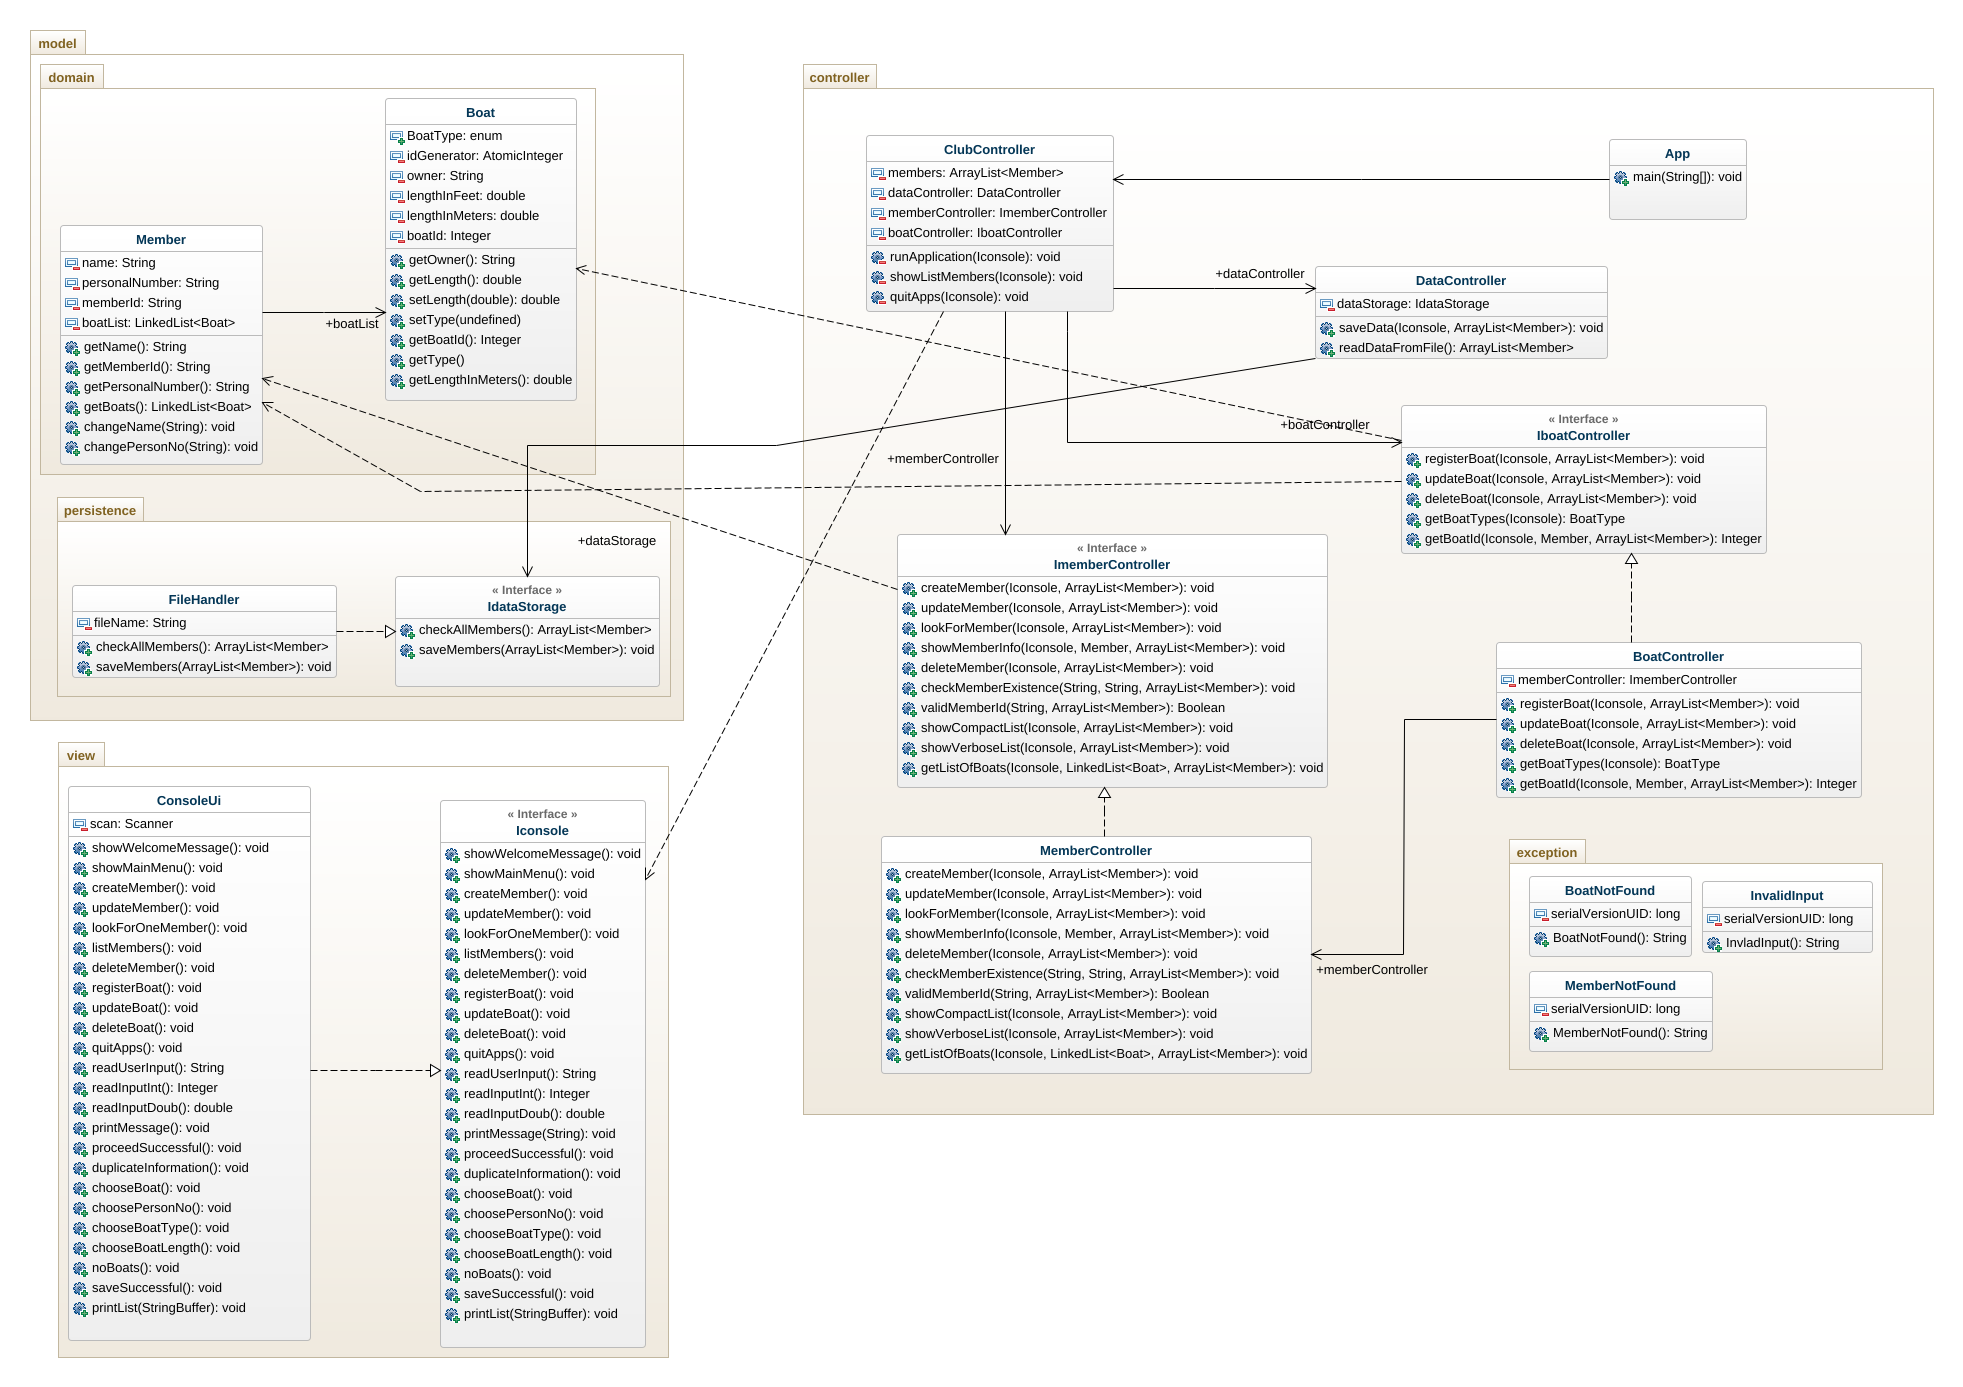
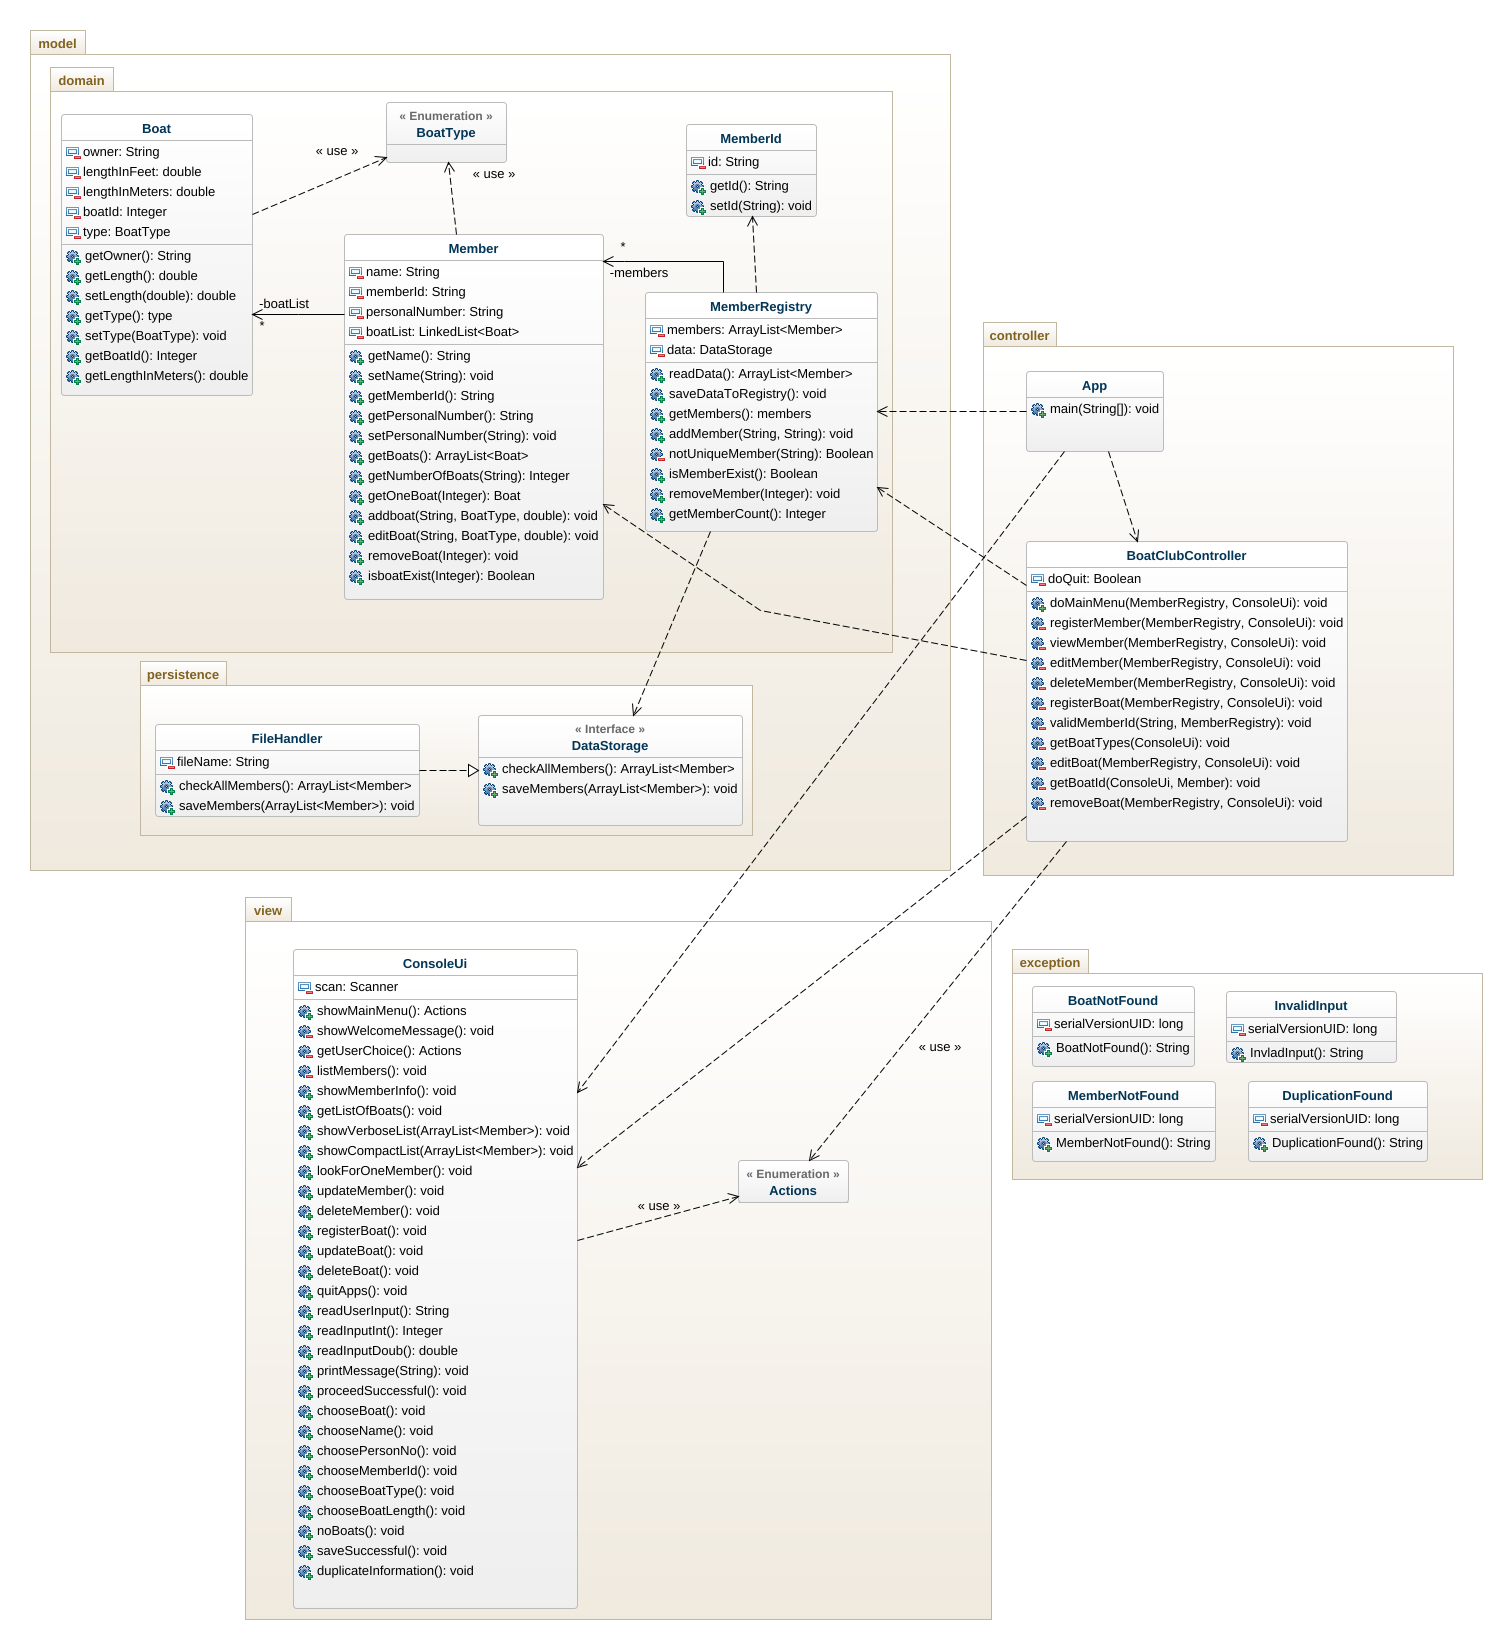
fix class diagram

diff --git a/src/main/java/controller/BoatClubController.java b/src/main/java/controller/BoatClubController.java
@@ -168,7 +168,7 @@ public class BoatClubController {
             }
           }
           // register boat to its owner
-          m.registerBoat(memberId, type, boatLength);
+          m.addBoat(memberId, type, boatLength);
           ui.proceedSucessful();
         }
       }
@@ -224,10 +224,9 @@ public class BoatClubController {
           int boatId = this.getBoatId(ui, m);
           for (Boat b : m.getBoats()) {
             if (b.getBoatId() == boatId) {
-              b.setType(this.getBoatTypes(ui));
               ui.chooseBoatLength();
               double boatLength = ui.readInputDoub();
-              b.setLength(boatLength);
+              m.editBoat(boatLength,this.getBoatTypes(ui), b);
               ui.proceedSucessful();
             }
           }
@@ -268,7 +267,7 @@ public class BoatClubController {
           int boatId = getBoatId(ui, m);
           for (int i = 0; i < m.getNumberOfBoats(); i++) {
             if (m.getOneBoat(i).getBoatId() == boatId) {
-              m.deleteBoat(i);
+              m.removeBoat(i);
               ui.proceedSucessful();
             }
           }

diff --git a/src/main/java/model/domain/Member.java b/src/main/java/model/domain/Member.java
@@ -61,17 +61,17 @@ public class Member {
     return boatList.get(position);
   }
 
-  public void registerBoat(String owner, BoatType type, double lengthInFeet) {
+  public void addBoat(String owner, BoatType type, double lengthInFeet) {
     Boat boat = new Boat(owner, type, lengthInFeet);
     boatList.add(boat);
   }
 
-  public void updateBoat(double length, BoatType type, Boat boat) {
+  public void editBoat(double length, BoatType type, Boat boat) {
     boat.setLength(length);
     boat.setType(type);
   }
 
-  public void deleteBoat(int idx) throws BoatNotFound {
+  public void removeBoat(int idx) throws BoatNotFound {
     boatList.remove(idx);
   }
 

diff --git a/src/main/java/model/domain/MemberRegistry.java b/src/main/java/model/domain/MemberRegistry.java
@@ -5,12 +5,12 @@ import exception.MemberNotFound;
 import java.io.IOException;
 import java.util.ArrayList;
 import model.persistence.FileHandler;
-import model.persistence.IdataStorage;
+import model.persistence.DataStorage;
 
 /** A class for CRUD functions with member's data and check if id is unique. */
 public class MemberRegistry {
   private ArrayList<Member> members = new ArrayList<>();
-  private IdataStorage data;
+  private DataStorage data;
 
   /** Initializing constructor. */
   public MemberRegistry() {

diff --git a/src/main/java/model/domain/Boat.java b/src/main/java/model/domain/Boat.java
@@ -47,16 +47,16 @@ public class Boat {
     this.lengthInFeet = length;
   }
 
+  public BoatType getType() {
+    return type;
+  }
+
   public void setType(BoatType type) {
     this.type = type;
   }
 
   public int getBoatId() {
     return boatId;
-  }
-
-  public BoatType getType() {
-    return type;
   }
 
   /** Method to get length in meters. */

diff --git a/src/main/java/model/persistence/DataStorage.java b/src/main/java/model/persistence/DataStorage.java
@@ -5,7 +5,7 @@ import java.util.ArrayList;
 import model.domain.Member;
 
 /** An interface for accessing and storing member's data. */
-public interface IdataStorage {
+public interface DataStorage {
   ArrayList<Member> checkAllMembers() throws IOException;
 
   void saveMembers(ArrayList<Member> members) throws IOException;

diff --git a/src/main/java/model/persistence/FileHandler.java b/src/main/java/model/persistence/FileHandler.java
@@ -11,7 +11,7 @@ import java.util.Arrays;
 import model.domain.Member;
 
 /** The FileHandler class to read and save data to file. */
-public class FileHandler implements IdataStorage {
+public class FileHandler implements DataStorage {
   private String fileName = "MemberData.json";
 
   @Override
